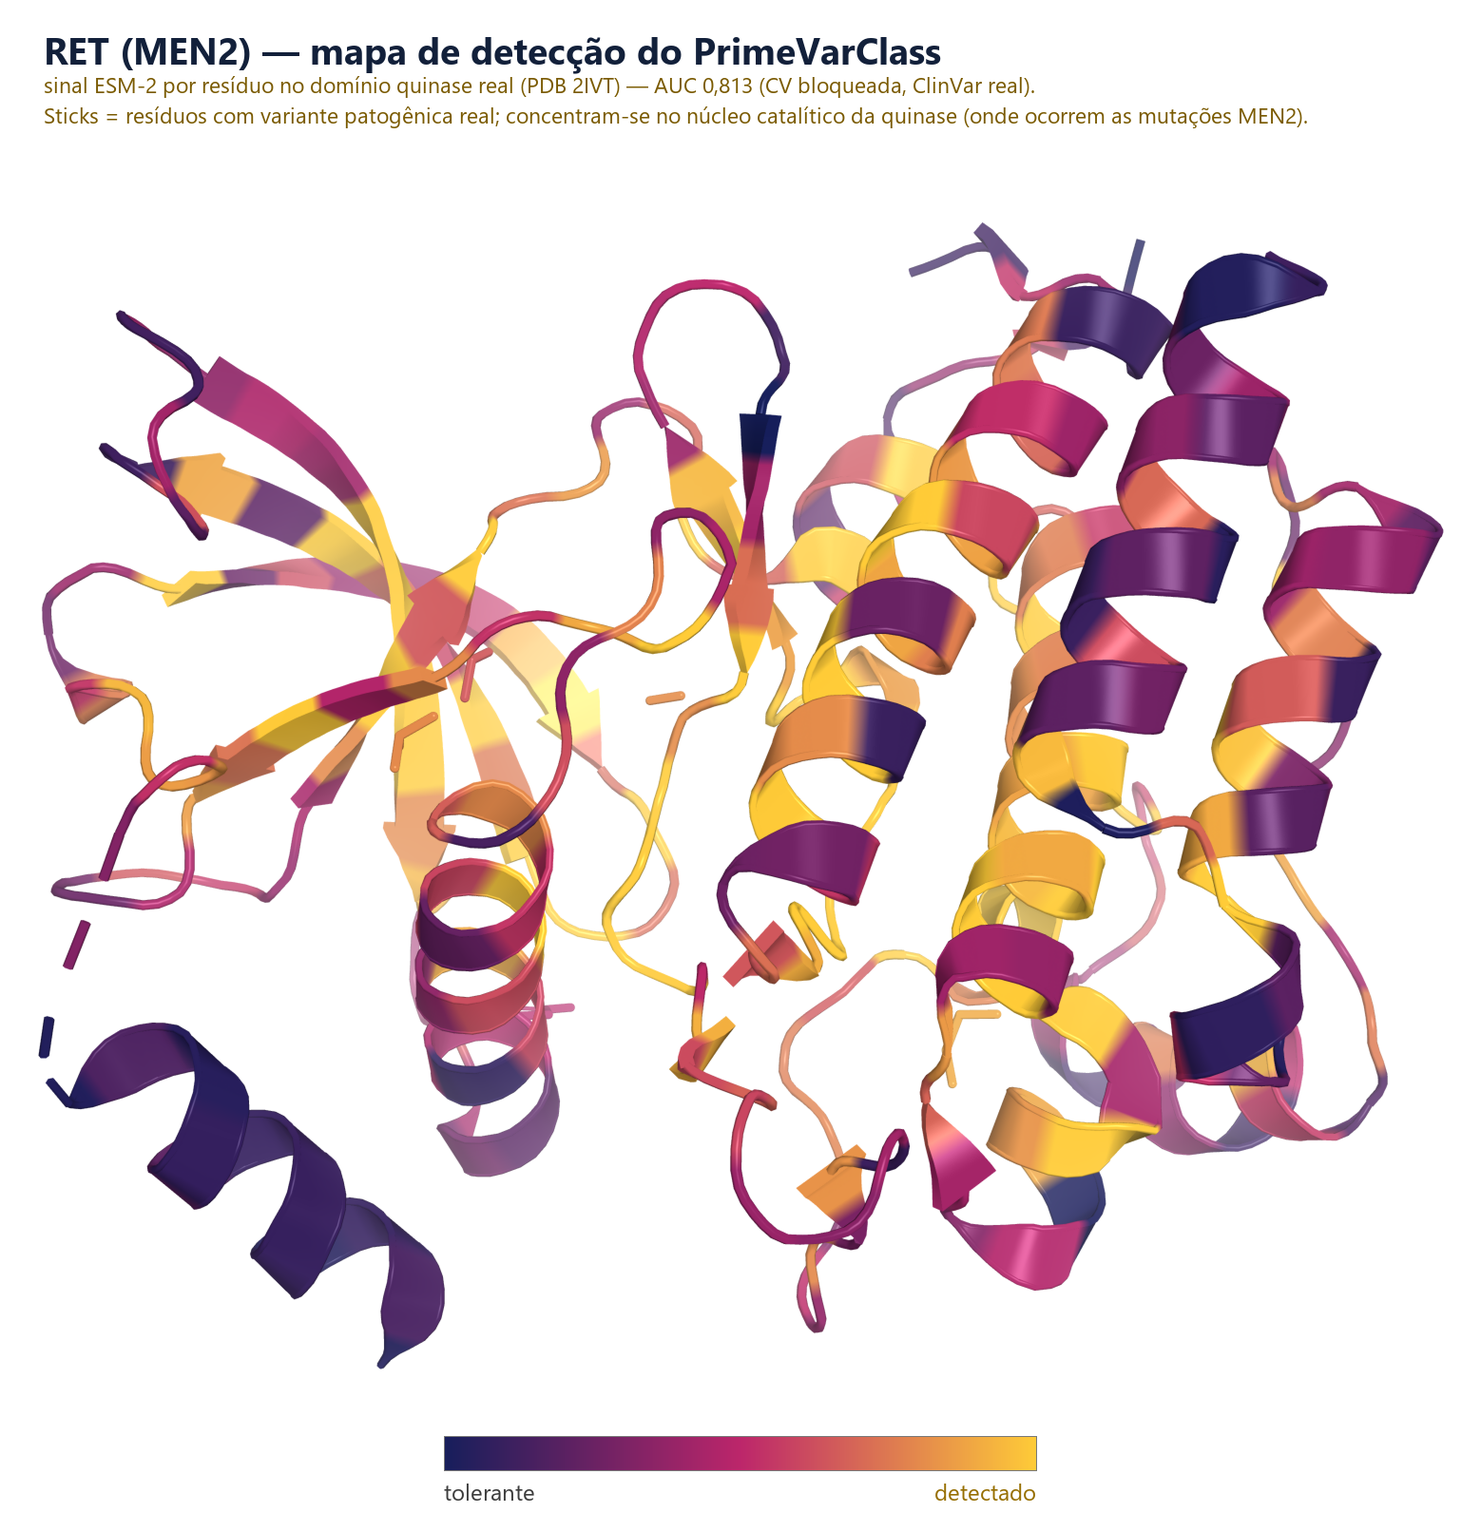
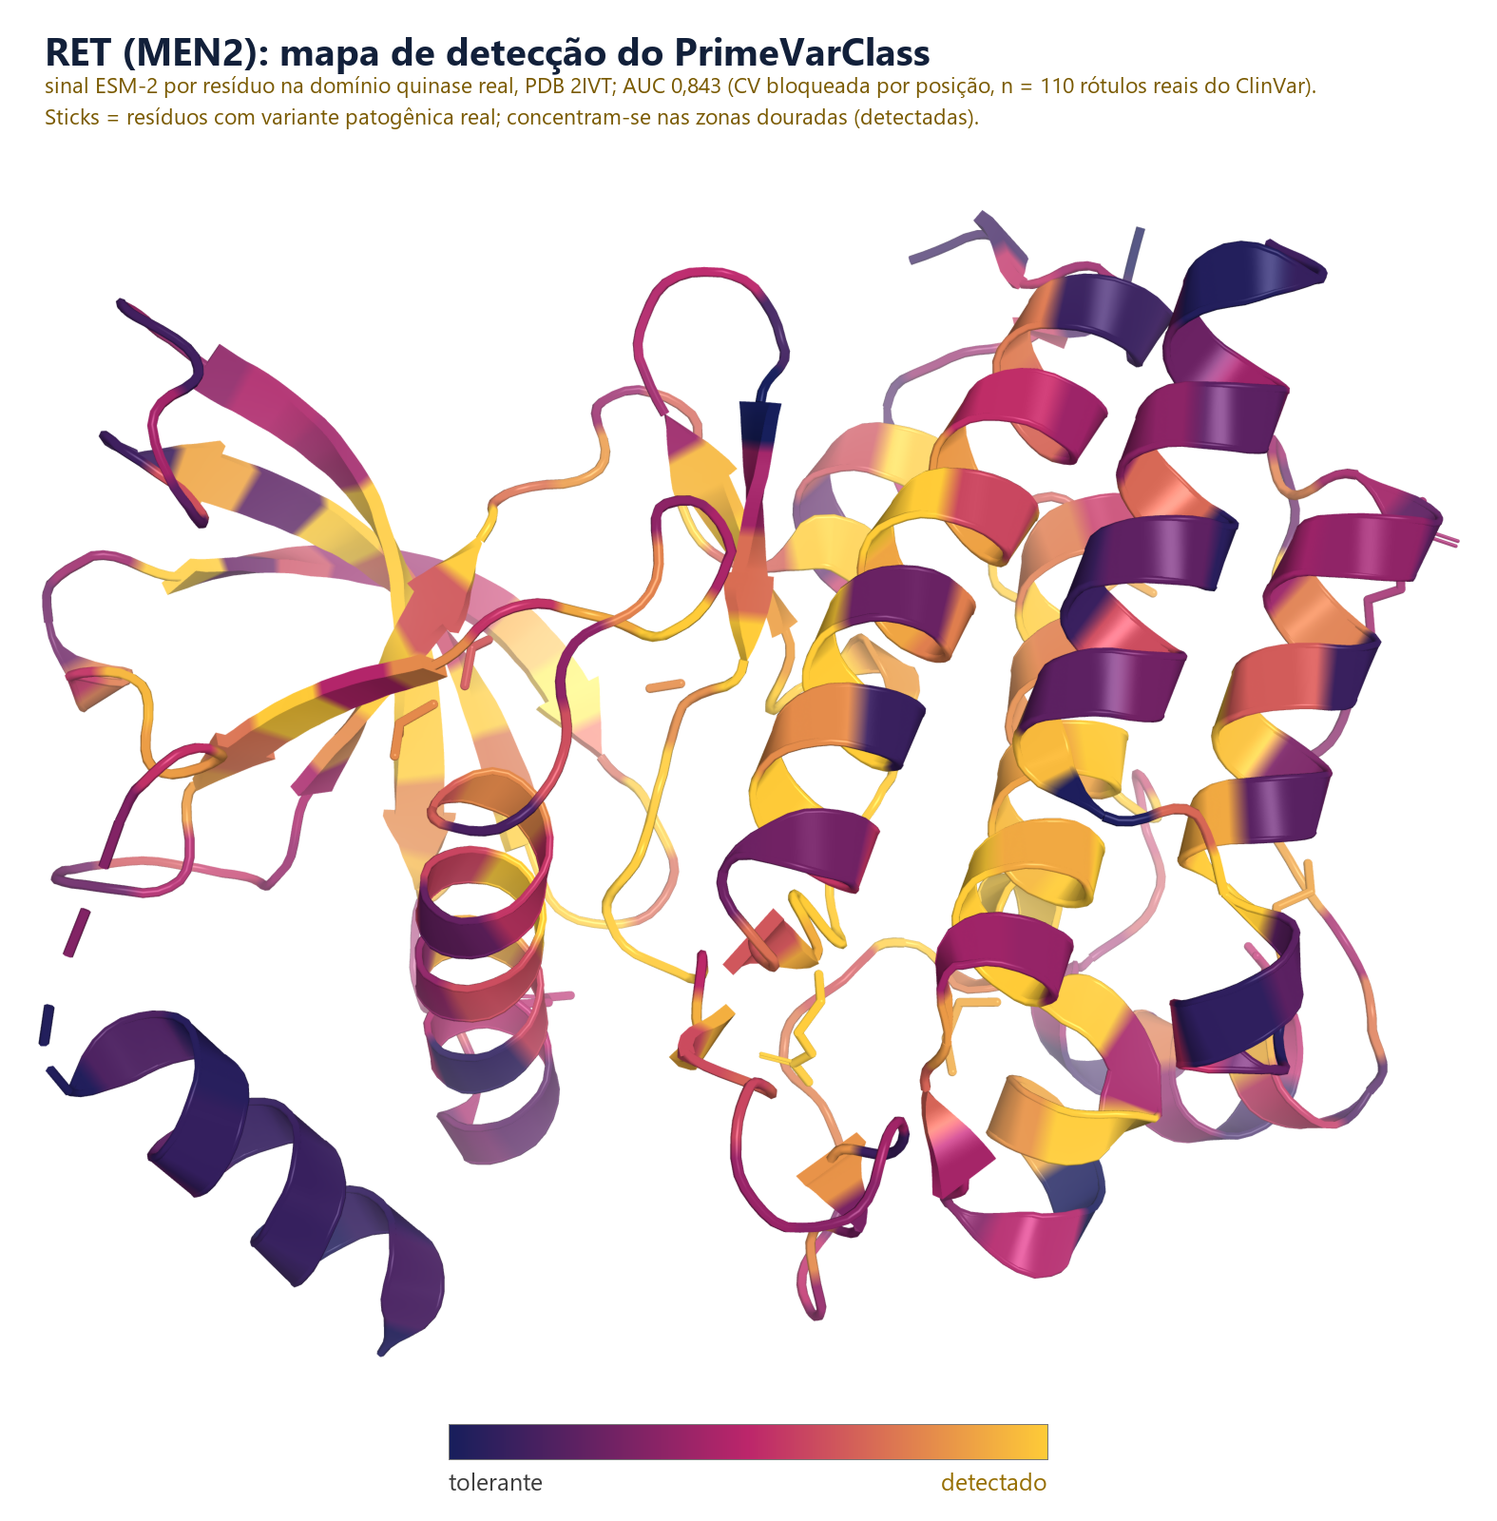
fix(figuras): regenera renders e figura temporal; CI verde; protege o artigo
Figuras atualizadas apos a correcao dos rotulos:
- renders PyMOL de VHL, MSH2 e RET regenerados com os rotulos reais corrigidos;
- novo scratch/compose_detection_maps.py unifica a composicao dos tres mapas e
  le a AUC do multigene_panel_expanded.json (antes o VHL trazia 0,966 fixo no
  proprio pixel da imagem, que sobreviveu a correcao dos dados);
- fig_temporal_validation.png era orfa (nenhum script a gerava) e mostrava os
  valores antigos; temporal_validation.py passa a gera-la.

Qualidade do repositorio:
- corrige os 5 erros de lint pre-existentes em src/ e tests/ (E702, E741, I001);
  ruff agora passa exatamente como no CI, que estava vermelho;
- remove travessao remanescente e atualiza os numeros temporais na docstring de
  continual.py.

Seguranca do artigo submetido:
- build_final_manuscript.py nao reproduz mais o artigo atual (figuras movidas,
  renumeracao, prosa enxugada e numeros corrigidos foram aplicados no DOCX).
  Sua saida passa a ir para docs/manuscrito/_versao_base/, com aviso explicito,
  para nao sobrescrever a submissao;
- .gitignore passa a cobrir arquivos de lock do Word (~$*), causa raiz do lock
  que entrou por engano no commit anterior.

Verificacao: 23 paginas, 7 figuras e 7 tabelas sequenciais, 14 linhas Fonte,
0 travessoes, 35 testes, lint limpo, 0 divergencias entre texto e JSONs.

diff --git a/scratch/compose_detection_maps.py b/scratch/compose_detection_maps.py
@@ -1,0 +1,96 @@
+"""Compose the expanded-panel supplement figures (VHL, MSH2, RET) from the
+ray-traced PyMOL renders in scratch/pymol/, adding a title, subtitle and a
+blue-to-gold colour-bar legend. Keeps PyMOL's resolution (PIL paste, no
+resampling).
+
+The AUC printed on each figure is read from
+primevarclass_manuscript_analysis/multigene_panel_expanded.json, so the caption
+can never drift from the measured value (it previously carried a hard-coded
+0,966 for VHL, which survived a data correction).
+
+Requires the renders produced by:
+  pymol -cq scratch/pymol_vhl_detection.py     -> scratch/pymol/vhl_detection.png
+  pymol -cq scratch/pymol_panel_detection.py   -> scratch/pymol/{msh2,ret}_detection.png
+
+Run: python scratch/compose_detection_maps.py
+"""
+import json
+import os
+
+import numpy as np
+from PIL import Image, ImageDraw, ImageFont
+
+ANL = "primevarclass_manuscript_analysis"
+RAMP = [(0.09, 0.12, 0.36), (0.74, 0.15, 0.42), (1.00, 0.80, 0.22)]
+
+SPECS = {
+    "VHL":  {"src": "scratch/pymol/vhl_detection.png",
+             "out": "docs/suplementar/figuras/fig_vhl_detection.png",
+             "titulo": "VHL (von Hippel-Lindau): mapa de detecção do PrimeVarClass",
+             "estrutura": "estrutura cristalográfica PDB 1LM8"},
+    "MSH2": {"src": "scratch/pymol/msh2_detection.png",
+             "out": "docs/suplementar/figuras/fig_msh2_detection.png",
+             "titulo": "MSH2 (Lynch): mapa de detecção do PrimeVarClass",
+             "estrutura": "complexo MutSα real, PDB 2O8B"},
+    "RET":  {"src": "scratch/pymol/ret_detection.png",
+             "out": "docs/suplementar/figuras/fig_ret_detection.png",
+             "titulo": "RET (MEN2): mapa de detecção do PrimeVarClass",
+             "estrutura": "domínio quinase real, PDB 2IVT"},
+}
+
+
+def font(sz, bold=True):
+    for c in (("C:/Windows/Fonts/segoeuib.ttf" if bold else "C:/Windows/Fonts/segoeui.ttf"),
+              "C:/Windows/Fonts/arialbd.ttf", "C:/Windows/Fonts/arial.ttf"):
+        if os.path.exists(c):
+            return ImageFont.truetype(c, sz)
+    return ImageFont.load_default()
+
+
+def lerp(a, b, t):
+    return tuple(int(255 * (a[i] + (b[i] - a[i]) * t)) for i in range(3))
+
+
+panel = json.load(open(os.path.join(ANL, "multigene_panel_expanded.json"), encoding="utf-8"))
+
+for gene, spec in SPECS.items():
+    if not os.path.exists(spec["src"]):
+        print(f"!! render ausente: {spec['src']} (rode o script PyMOL antes)")
+        continue
+    auc = panel[gene]["auc_domain_esm"]
+    n = panel[gene]["n"]
+    auc_txt = f"{auc:.3f}".replace(".", ",")
+
+    im = Image.open(spec["src"]).convert("RGB")
+    arr = np.asarray(im); mask = (arr < 245).any(2); ys, xs = np.where(mask)
+    pad = 40
+    im = im.crop((max(0, xs.min() - pad), max(0, ys.min() - pad),
+                  min(im.width, xs.max() + pad), min(im.height, ys.max() + pad)))
+    W = im.width; TOP = int(W * 0.115); BOT = int(W * 0.085)
+    canvas = Image.new("RGB", (W, TOP + im.height + BOT), "white")
+    canvas.paste(im, (0, TOP))
+    d = ImageDraw.Draw(canvas)
+    d.text((int(W * 0.03), int(TOP * 0.14)), spec["titulo"],
+           font=font(int(W * 0.0255)), fill=(18, 32, 58))
+    y = int(TOP * 0.14) + int(W * 0.031)
+    d.text((int(W * 0.03), y),
+           f"sinal ESM-2 por resíduo na {spec['estrutura']}; AUC {auc_txt} "
+           f"(CV bloqueada por posição, n = {n} rótulos reais do ClinVar).",
+           font=font(int(W * 0.0150), bold=False), fill=(122, 90, 0))
+    d.text((int(W * 0.03), y + int(W * 0.021)),
+           "Sticks = resíduos com variante patogênica real; concentram-se nas zonas douradas (detectadas).",
+           font=font(int(W * 0.0150), bold=False), fill=(122, 90, 0))
+    bx0 = int(W * 0.30); bx1 = int(W * 0.70)
+    by0 = TOP + im.height + int(BOT * 0.24); bh = int(BOT * 0.28)
+    for i in range(bx1 - bx0):
+        t = i / (bx1 - bx0)
+        col = lerp(RAMP[0], RAMP[1], t * 2) if t < 0.5 else lerp(RAMP[1], RAMP[2], (t - 0.5) * 2)
+        d.line([(bx0 + i, by0), (bx0 + i, by0 + bh)], fill=col)
+    d.rectangle([bx0, by0, bx1, by0 + bh], outline=(120, 120, 120))
+    fs = font(int(W * 0.016), bold=False)
+    d.text((bx0, by0 + bh + int(BOT * 0.05)), "tolerante", font=fs, fill=(60, 60, 60))
+    r = d.textlength("detectado", font=fs)
+    d.text((bx1 - r, by0 + bh + int(BOT * 0.05)), "detectado", font=fs, fill=(150, 110, 0))
+    os.makedirs(os.path.dirname(spec["out"]), exist_ok=True)
+    canvas.save(spec["out"], quality=95)
+    print(f">> {gene}: AUC {auc_txt} (n={n}) -> {spec['out']} {canvas.size}")

diff --git a/scratch/render_vhl_detection.py b/scratch/render_vhl_detection.py
@@ -1,6 +1,6 @@
-"""VHL per-residue detection — computes the ESM-2 detection track that drives VHL
-(AUC 0,966) and a quick matplotlib 3D preview. The CANONICAL supplement figure is
-the ray-traced PyMOL render (scratch/pymol_vhl_detection.py -> scratch/compose_vhl_figure.py);
+"""VHL per-residue detection: computes the ESM-2 detection track that drives VHL
+and a quick matplotlib 3D preview (the AUC shown is read from the panel JSON). The CANONICAL supplement figure is
+the ray-traced PyMOL render (scratch/pymol_vhl_detection.py -> scratch/compose_detection_maps.py);
 this script's job is to produce detected_per_residue_vhl.csv, which PyMOL then reads.
 
 Inputs : scratch/esm_input/esm2_650M_expanded_scores.csv (VHL saturation LLR),
@@ -28,6 +28,7 @@ from scipy.interpolate import splev, splprep
 
 ANL = "primevarclass_manuscript_analysis"
 FIG = "primevarclass_manuscript_analysis/fig_vhl_detection_mpl.png"  # preview; canonical fig is PyMOL
+_AUC_TXT = f"{json.load(open(os.path.join(ANL, 'multigene_panel_expanded.json'), encoding='utf-8'))['VHL']['auc_domain_esm']:.3f}".replace(".", ",")
 CORE_START = 54   # folded β+α core; the disordered N-terminus (1-53) is dropped for clarity
 RAMP = [(0.09, 0.12, 0.36), (0.74, 0.15, 0.42), (1.00, 0.80, 0.22)]
 
@@ -73,11 +74,11 @@ mid = P.mean(0); rng = (P.max(0) - P.min(0)).max() / 2 * 0.82
 for s, c in zip("xyz", mid):
     getattr(ax, f"set_{s}lim")(c - rng, c + rng)
 ax.view_init(elev=14, azim=35)
-fig.text(0.5, 0.965, "VHL (von Hippel-Lindau) — mapa de detecção do PrimeVarClass",
+fig.text(0.5, 0.965, "VHL (von Hippel-Lindau): mapa de detecção do PrimeVarClass",
          ha="center", fontsize=15, fontweight="bold", color="#12203a")
-fig.text(0.5, 0.918, "sinal ESM-2 por resíduo no núcleo dobrado (β+α, AlphaFold P40337) — azul = tolerante · "
-         "dourado = detectado; AUC 0,966 (CV bloqueada, ClinVar real).", ha="center", fontsize=9, color="#7a5a00")
-fig.text(0.5, 0.895, "Esferas com contorno preto = resíduos com variante patogênica real — concentram-se nas zonas douradas.",
+fig.text(0.5, 0.918, "sinal ESM-2 por resíduo no núcleo dobrado (β+α, AlphaFold P40337); azul = tolerante, "
+         f"dourado = detectado; AUC {_AUC_TXT} (CV bloqueada, ClinVar real).", ha="center", fontsize=9, color="#7a5a00")
+fig.text(0.5, 0.895, "Esferas com contorno preto = resíduos com variante patogênica real; concentram-se nas zonas douradas.",
          ha="center", fontsize=9, color="#7a5a00")
 sm = plt.cm.ScalarMappable(cmap=cmap); sm.set_array([0, 1])
 cax = fig.add_axes([0.86, 0.34, 0.02, 0.34])

diff --git a/src/primevarclass/continual.py b/src/primevarclass/continual.py
@@ -17,8 +17,8 @@ Real, *guarded* online learning (no hand-waving):
 
 Why this is legitimate, not a buzzword: the paper's temporal validation shows that
 as ClinVar accumulates confirmed labels over the years, a model trained only on the
-past classifies *future* variants increasingly well (external AUC 0.892 in 2016 to
-0.932 in 2021). This module operationalises exactly that effect; every confirmed
+past classifies *future* variants increasingly well (external AUC 0.908 in 2016 to
+0.931 in 2021). This module operationalises exactly that effect; every confirmed
 variant a user contributes is one more label that makes the next model better,
 under a safety gate that never lets it get worse.
 """
@@ -92,7 +92,7 @@ class FeedbackStore:
         lab = normalize_label(label)
         sha = self._identity(gene, position, aa_ref, aa_alt, lab)
         if sha in self.existing_ids():
-            return None                              # already recorded — idempotent
+            return None                              # already recorded; idempotent
         rec = FeedbackRecord(gene=gene, position=int(position),
                              aa_ref=str(aa_ref).upper(), aa_alt=str(aa_alt).upper(),
                              label=lab, source=source, submitter=submitter,
@@ -107,7 +107,7 @@ class FeedbackStore:
             return pd.DataFrame(
                 columns=["gene", "position", "aa_ref", "aa_alt", "label",
                          "source", "submitter", "timestamp", "sha256"])
-        rows = [json.loads(l) for l in self.path.read_text(encoding="utf-8").splitlines() if l.strip()]
+        rows = [json.loads(line) for line in self.path.read_text(encoding="utf-8").splitlines() if line.strip()]
         return pd.DataFrame(rows)
 
 
@@ -159,6 +159,7 @@ def _with_hgvs(frame):
 def _engineer(root: Path, frame, esm_path: Path):
     """Feature-engineer a (gene, position, aa_ref, aa_alt, label) frame."""
     import pandas as pd
+
     from .core import build_dataset_from_dataframe
     from .esm_scores import attach_esm_scores
     built, _ = build_dataset_from_dataframe(_with_hgvs(frame), mode="hybrid", keep_metadata=True)
@@ -170,6 +171,7 @@ def _engineer(root: Path, frame, esm_path: Path):
 def _base_frame(root: Path):
     """The internal public training cohort, as (ids + label)."""
     import pandas as pd
+
     from .data_sources import build_dataset_from_source_config
     cfg = root / "configs" / "public_brca_real.toml"
     df, _, _ = build_dataset_from_source_config(str(cfg), mode="hybrid", keep_metadata=True)

diff --git a/scratch/build_final_manuscript.py b/scratch/build_final_manuscript.py
@@ -1,11 +1,20 @@
 # -*- coding: utf-8 -*-
-"""Gera o manuscrito final do PrimeVarClass para o 32º Prêmio Jovem Cientista,
-em conformidade com o Edital (item 2.2.2c): A4, Arial 12, espaçamento 1,5,
-estrutura Apresentação / Desenvolvimento / Conclusão / Referências.
+"""Monta a VERSÃO BASE do manuscrito (A4, Arial 12, espaçamento 1,5; estrutura
+Apresentação / Desenvolvimento / Conclusão / Referências, item 2.2.2c do Edital).
 
-Todo o texto é original desta sessão (primeira pessoa, pretérito), e todos os
-números citados foram verificados contra os JSON/CSV reais em
-primevarclass_manuscript_analysis/ e scratch/decisive_results/ antes da escrita.
+ATENÇÃO: ESTE SCRIPT NÃO REPRODUZ O ARTIGO SUBMETIDO.
+O documento em docs/manuscrito/ é o artefato autoritativo e sofreu, depois desta
+montagem, alterações feitas diretamente no DOCX:
+  * quatro figuras e uma tabela migraram para o Material Suplementar, com
+    renumeração sequencial das restantes;
+  * Resumo, Discussão e Considerações Finais foram enxugados;
+  * os números foram corrigidos após a correção do parser de rótulos do ClinVar
+    (ver primevarclass_manuscript_analysis/*.json e src/primevarclass/core.py::
+    clinvar_binary_label). O texto abaixo ainda carrega os valores ANTIGOS.
+
+Por isso a saída vai para docs/manuscrito/_versao_base/, e não sobre o arquivo
+submetido. Os números e figuras continuam integralmente reproduzíveis pelos
+scripts de análise; o que este script não reproduz é a diagramação final.
 
 Run: python scratch/build_final_manuscript.py
 """
@@ -18,7 +27,7 @@ from docx.oxml.ns import qn
 from docx.shared import Cm, Inches, Pt, RGBColor
 
 FIG = "docs/manuscrito/figuras"
-OUT = "docs/manuscrito/PrimeVarClass_Artigo_Premio_Jovem_Cientista.docx"
+OUT = "docs/manuscrito/_versao_base/PrimeVarClass_Artigo_versao_base.docx"  # NAO sobrescreve o artigo submetido (ver docstring)
 
 # --------------------------------------------------------------------------- #
 #  Helpers                                                                     #

diff --git a/scratch/temporal_validation.py b/scratch/temporal_validation.py
@@ -69,4 +69,34 @@ for T in [2016, 2018, 2019, 2020, 2021]:
           f"(pat={int(te.label.sum())})  AUC_futuro={auc:.3f}")
 
 json.dump(res, open(os.path.join(ANL, "temporal_validation.json"), "w"), indent=2, ensure_ascii=False)
-print(f">> wrote {ANL}/temporal_validation.json")
+
+# ---- figura (antes era um PNG orfao, sem script que o gerasse) ----------------
+import matplotlib
+matplotlib.use("Agg")
+import matplotlib.pyplot as plt
+
+anos = sorted(res, key=int)
+aucs = [res[a]["future_auc"] for a in anos]
+ns = [res[a]["n_test_future"] for a in anos]
+fig, ax = plt.subplots(figsize=(10.6, 6.0), dpi=200)
+ax.plot([int(a) for a in anos], aucs, "-o", color="#c0392b", lw=2.6, ms=9)
+for a, v, n in zip(anos, aucs, ns):
+    ax.annotate(f"{v:.3f}".replace(".", ","), (int(a), v), textcoords="offset points",
+                xytext=(0, 12), ha="center", fontsize=14, fontweight="bold")
+    ax.annotate(f"n={n}", (int(a), v), textcoords="offset points",
+                xytext=(0, -20), ha="center", fontsize=11.5, color="#555555")
+ax.set_xlabel("ano de corte (treino usa apenas o que era definitivo até ali)", fontsize=13.5)
+ax.set_ylabel("AUC nas variantes classificadas depois do corte", fontsize=13.5)
+ax.set_title("Validação temporal: treinado só com o passado, testado no futuro",
+             fontsize=15.5, fontweight="bold")
+ax.set_xticks([int(a) for a in anos])
+ax.tick_params(labelsize=12.5)
+ax.margins(x=0.10, y=0.20)
+ax.grid(alpha=0.25)
+fig.tight_layout()
+for _fp in ("docs/suplementar/figuras/fig_temporal_validation.png",
+            "docs/manuscrito/figuras/fig_temporal_validation.png",
+            "docs/galeria_resultados/figuras/fig_temporal_validation.png"):
+    os.makedirs(os.path.dirname(_fp), exist_ok=True)
+    fig.savefig(_fp, dpi=200, bbox_inches="tight", facecolor="white")
+print(f">> wrote {ANL}/temporal_validation.json and fig_temporal_validation.png (3 pastas)")

diff --git a/scratch/pymol_panel_detection.py b/scratch/pymol_panel_detection.py
@@ -2,8 +2,8 @@
 
 Same recipe as scratch/pymol_vhl_detection.py, for two more genes of the expanded
 panel, on REAL structures:
-  MSH2 (Lynch, AUC 0,926) -> PDB 2O8B chain A (human MutS-alpha)
-  RET  (MEN2,  AUC 0,813) -> PDB 2IVT chain A (RET kinase domain)
+  MSH2 (Lynch, AUC 0,885) -> PDB 2O8B chain A (human MutS-alpha)
+  RET  (MEN2,  AUC 0,843) -> PDB 2IVT chain A (RET kinase domain)
 Per-residue ESM-2 detection colours the cartoon blue (tolerant) -> gold (detected);
 real ClinVar-pathogenic residues in the resolved region are drawn as sticks.
 

diff --git a/src/primevarclass/cli.py b/src/primevarclass/cli.py
@@ -190,7 +190,8 @@ def _cmd_update(args: argparse.Namespace) -> int:
     frames = []
     for c in holdout_cfgs:
         df, _, _ = build_dataset_from_source_config(str(root / c), mode="hybrid", keep_metadata=True)
-        y = pd.to_numeric(df["label"], errors="coerce"); keep = y.notna()
+        y = pd.to_numeric(df["label"], errors="coerce")
+        keep = y.notna()
         f = df.loc[keep, ["gene", "position", "aa_ref", "aa_alt"]].copy()
         f["label"] = y.loc[keep].astype(int).to_numpy()
         frames.append(f)

diff --git a/tests/test_continual.py b/tests/test_continual.py
@@ -10,7 +10,9 @@ import pytest
 sys.path.insert(0, str(Path(__file__).resolve().parents[1] / "src"))
 
 from primevarclass.continual import (  # noqa: E402
-    FeedbackStore, ModelRegistry, normalize_label,
+    FeedbackStore,
+    ModelRegistry,
+    normalize_label,
 )
 
 

diff --git a/docs/suplementar/PrimeVarClass_Material_Suplementar.md b/docs/suplementar/PrimeVarClass_Material_Suplementar.md
@@ -265,15 +265,15 @@ Para testar se a receita ultrapassa o câncer de mama/ovário, aplicou-se o **me
 
 ![Figura S12c](figuras/fig_vhl_detection.png)
 
-**Figura S12c.** Mapa estrutural de detecção do **VHL** (AUC 0,722), renderizado em PyMOL sobre a **estrutura cristalográfica real** (PDB 1LM8, cadeia V; domínios β+α). O sinal ESM-2 por resíduo colore a cadeia de **azul** (tolerante) a **dourado** (detectado): as zonas douradas concentram-se no núcleo funcional, e os resíduos com **variante patogênica real** do ClinVar (mostrados como *sticks*) caem justamente nelas, sem que a estrutura tenha sido informada ao modelo. É a mesma assinatura vista em BRCA1 (RING/BRCT), reproduzida em um gene de outra síndrome hereditária. Escores por resíduo em `detected_per_residue_vhl.csv`; scripts `scratch/pymol_vhl_detection.py` + `scratch/compose_vhl_figure.py`.
+**Figura S12c.** Mapa estrutural de detecção do **VHL** (AUC 0,722), renderizado em PyMOL sobre a **estrutura cristalográfica real** (PDB 1LM8, cadeia V; domínios β+α). O sinal ESM-2 por resíduo colore a cadeia de **azul** (tolerante) a **dourado** (detectado): as zonas douradas concentram-se no núcleo funcional, e os resíduos com **variante patogênica real** do ClinVar (mostrados como *sticks*) caem justamente nelas, sem que a estrutura tenha sido informada ao modelo. É a mesma assinatura vista em BRCA1 (RING/BRCT), reproduzida em um gene de outra síndrome hereditária. Escores por resíduo em `detected_per_residue_vhl.csv`; scripts `scratch/pymol_vhl_detection.py` + `scratch/compose_detection_maps.py`.
 
 ![Figura S12d](figuras/fig_msh2_detection.png)
 
-**Figura S12d.** MSH2 (Lynch, AUC 0,885) sobre a estrutura real do complexo MutSα (PDB 2O8B, cadeia A). O sinal ESM-2 por resíduo colore a cadeia de azul (tolerante) a dourado (detectado), e as variantes patogênicas reais (*sticks*) acompanham o núcleo funcional do reparo de emparelhamento. Por ser uma proteína grande e multidomínio, a detecção é mais distribuída que no VHL, como esperado. PyMOL: `scratch/pymol_panel_detection.py`.
+**Figura S12d.** MSH2 (Lynch, AUC 0,885) sobre a estrutura real do complexo MutSα (PDB 2O8B, cadeia A). O sinal ESM-2 por resíduo colore a cadeia de azul (tolerante) a dourado (detectado), e as variantes patogênicas reais (*sticks*) acompanham o núcleo funcional do reparo de emparelhamento. Por ser uma proteína grande e multidomínio, a detecção é mais distribuída que no VHL, como esperado. PyMOL: `scratch/pymol_panel_detection.py` + `scratch/compose_detection_maps.py`.
 
 ![Figura S12e](figuras/fig_ret_detection.png)
 
-**Figura S12e.** RET (MEN2, AUC 0,843), domínio quinase real (PDB 2IVT). A detecção concentra-se no núcleo catalítico da quinase (onde se localizam as mutações ativadoras clássicas do MEN2, p. ex. Met918), com as variantes patogênicas reais (*sticks*) nessas regiões. PyMOL: `scratch/pymol_panel_detection.py`.
+**Figura S12e.** RET (MEN2, AUC 0,843), domínio quinase real (PDB 2IVT). A detecção concentra-se no núcleo catalítico da quinase (onde se localizam as mutações ativadoras clássicas do MEN2, p. ex. Met918), com as variantes patogênicas reais (*sticks*) nessas regiões. PyMOL: `scratch/pymol_panel_detection.py` + `scratch/compose_detection_maps.py`.
 
 ---
 
